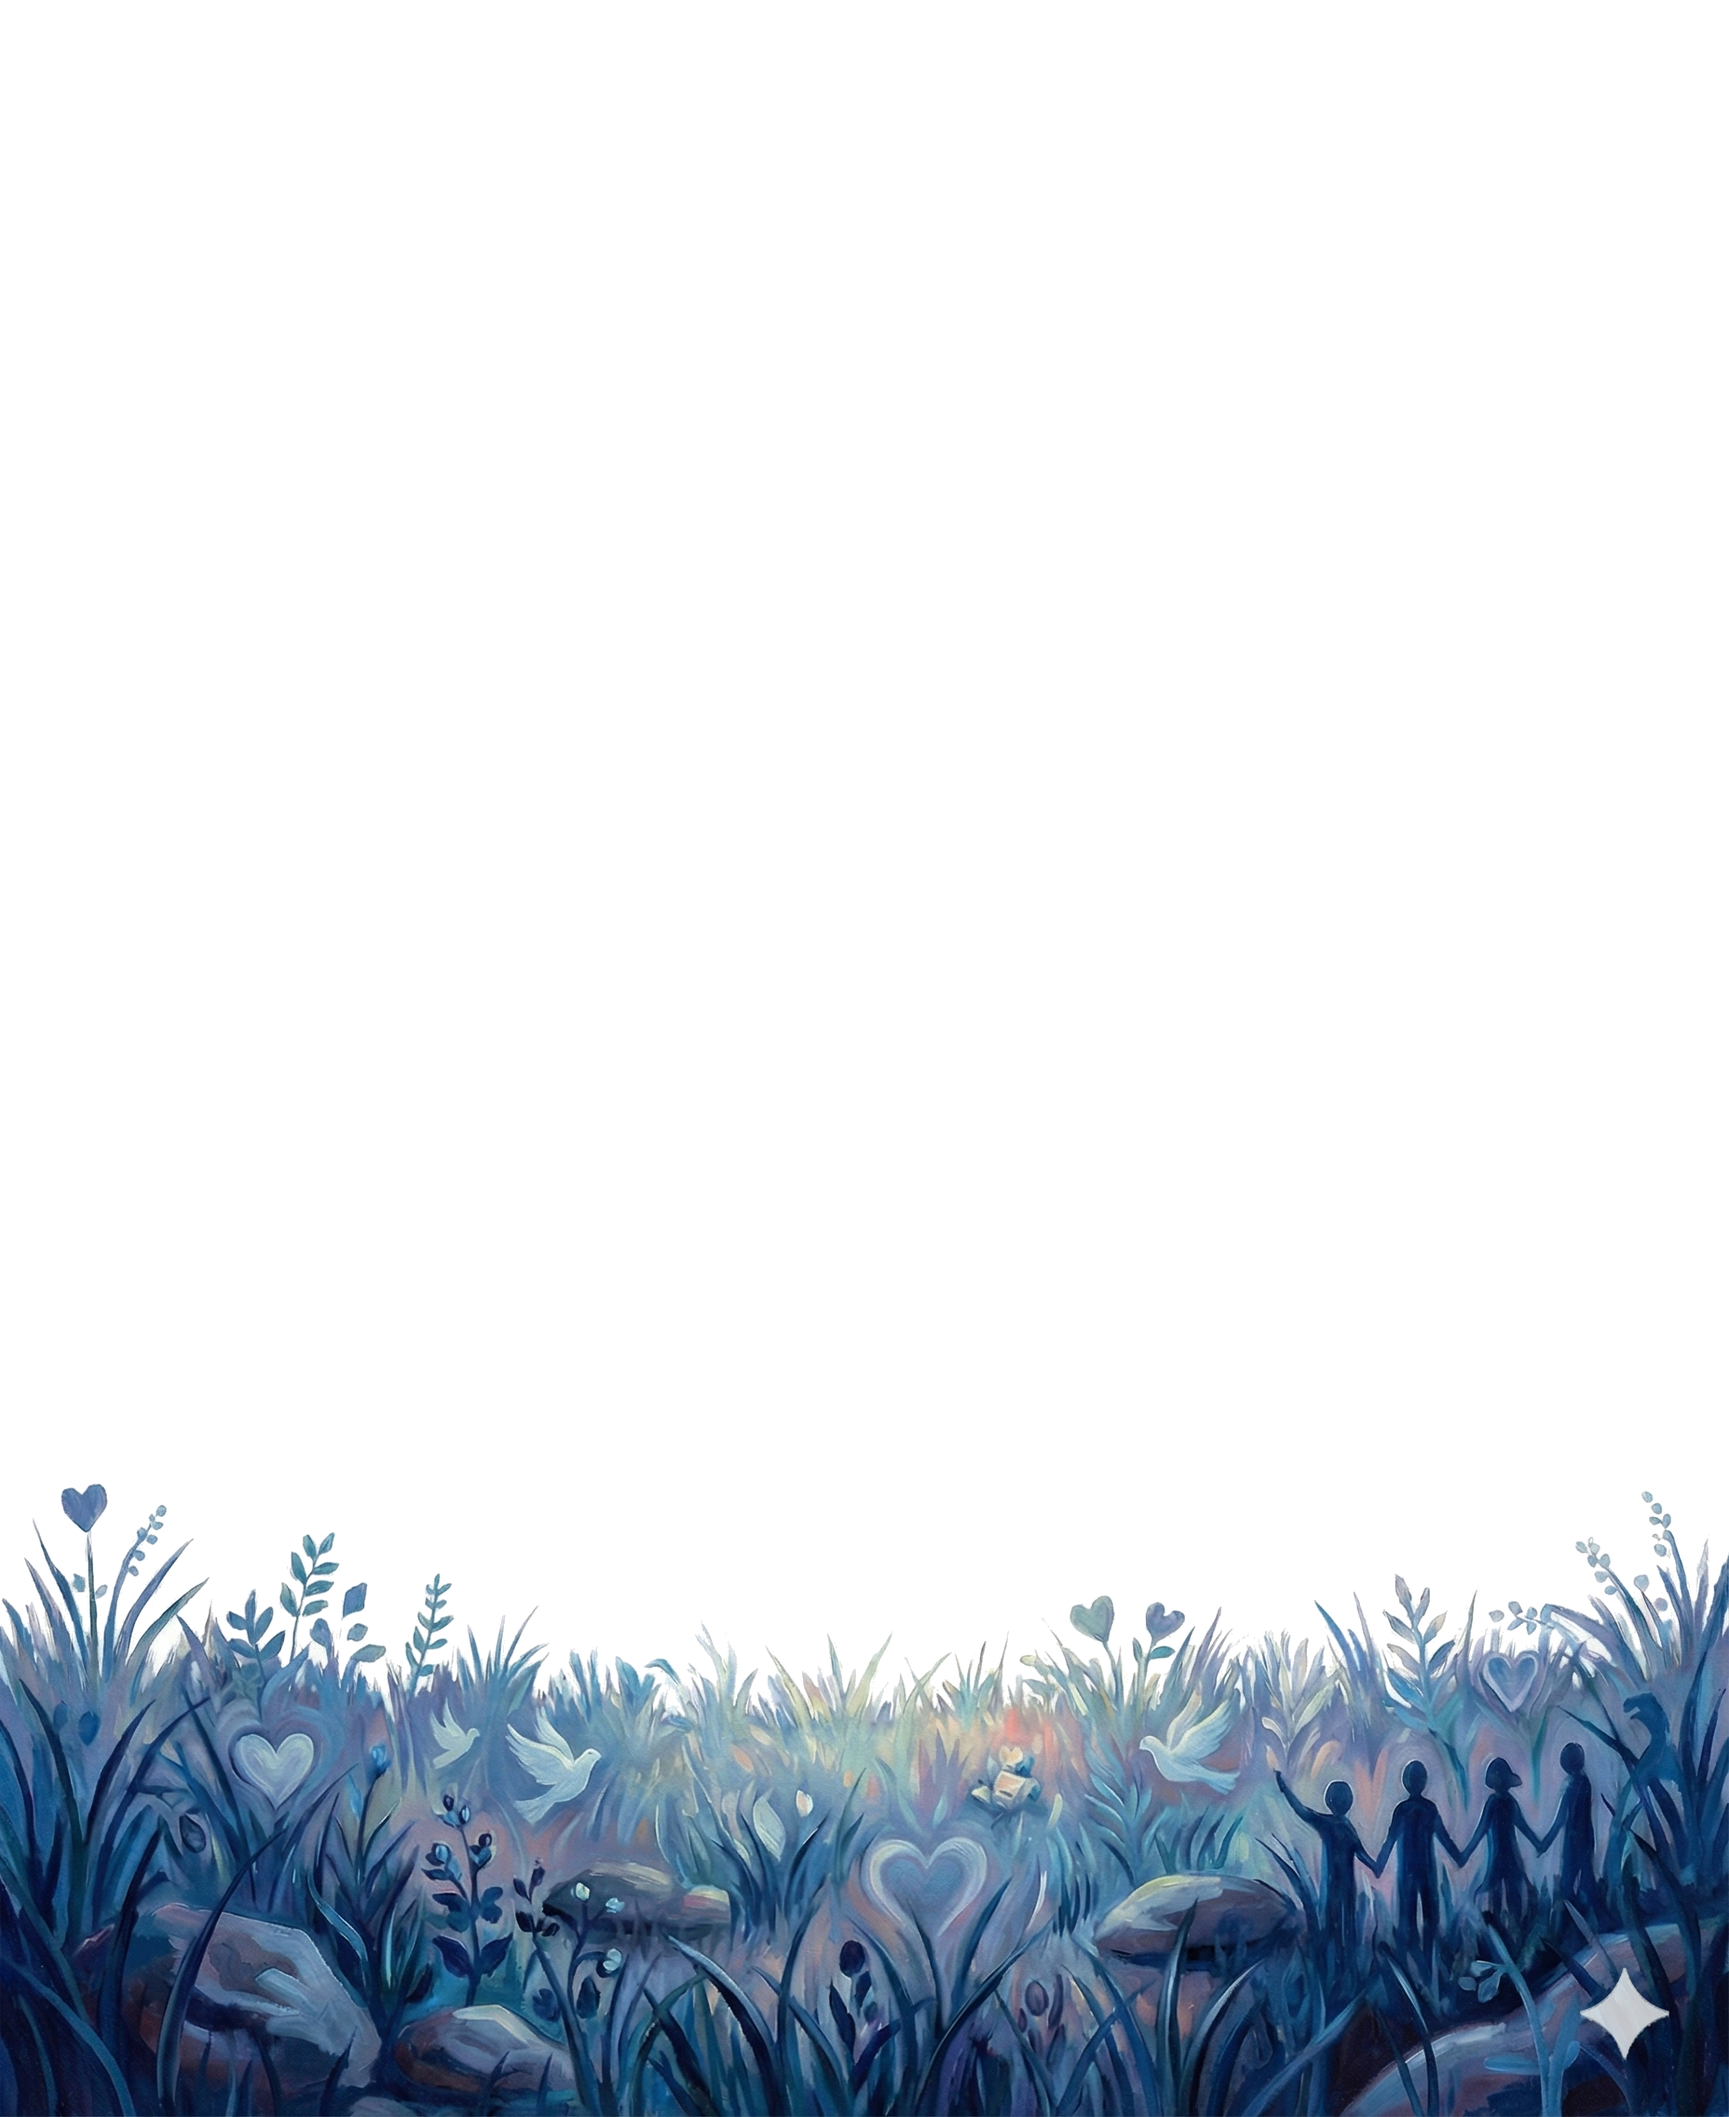
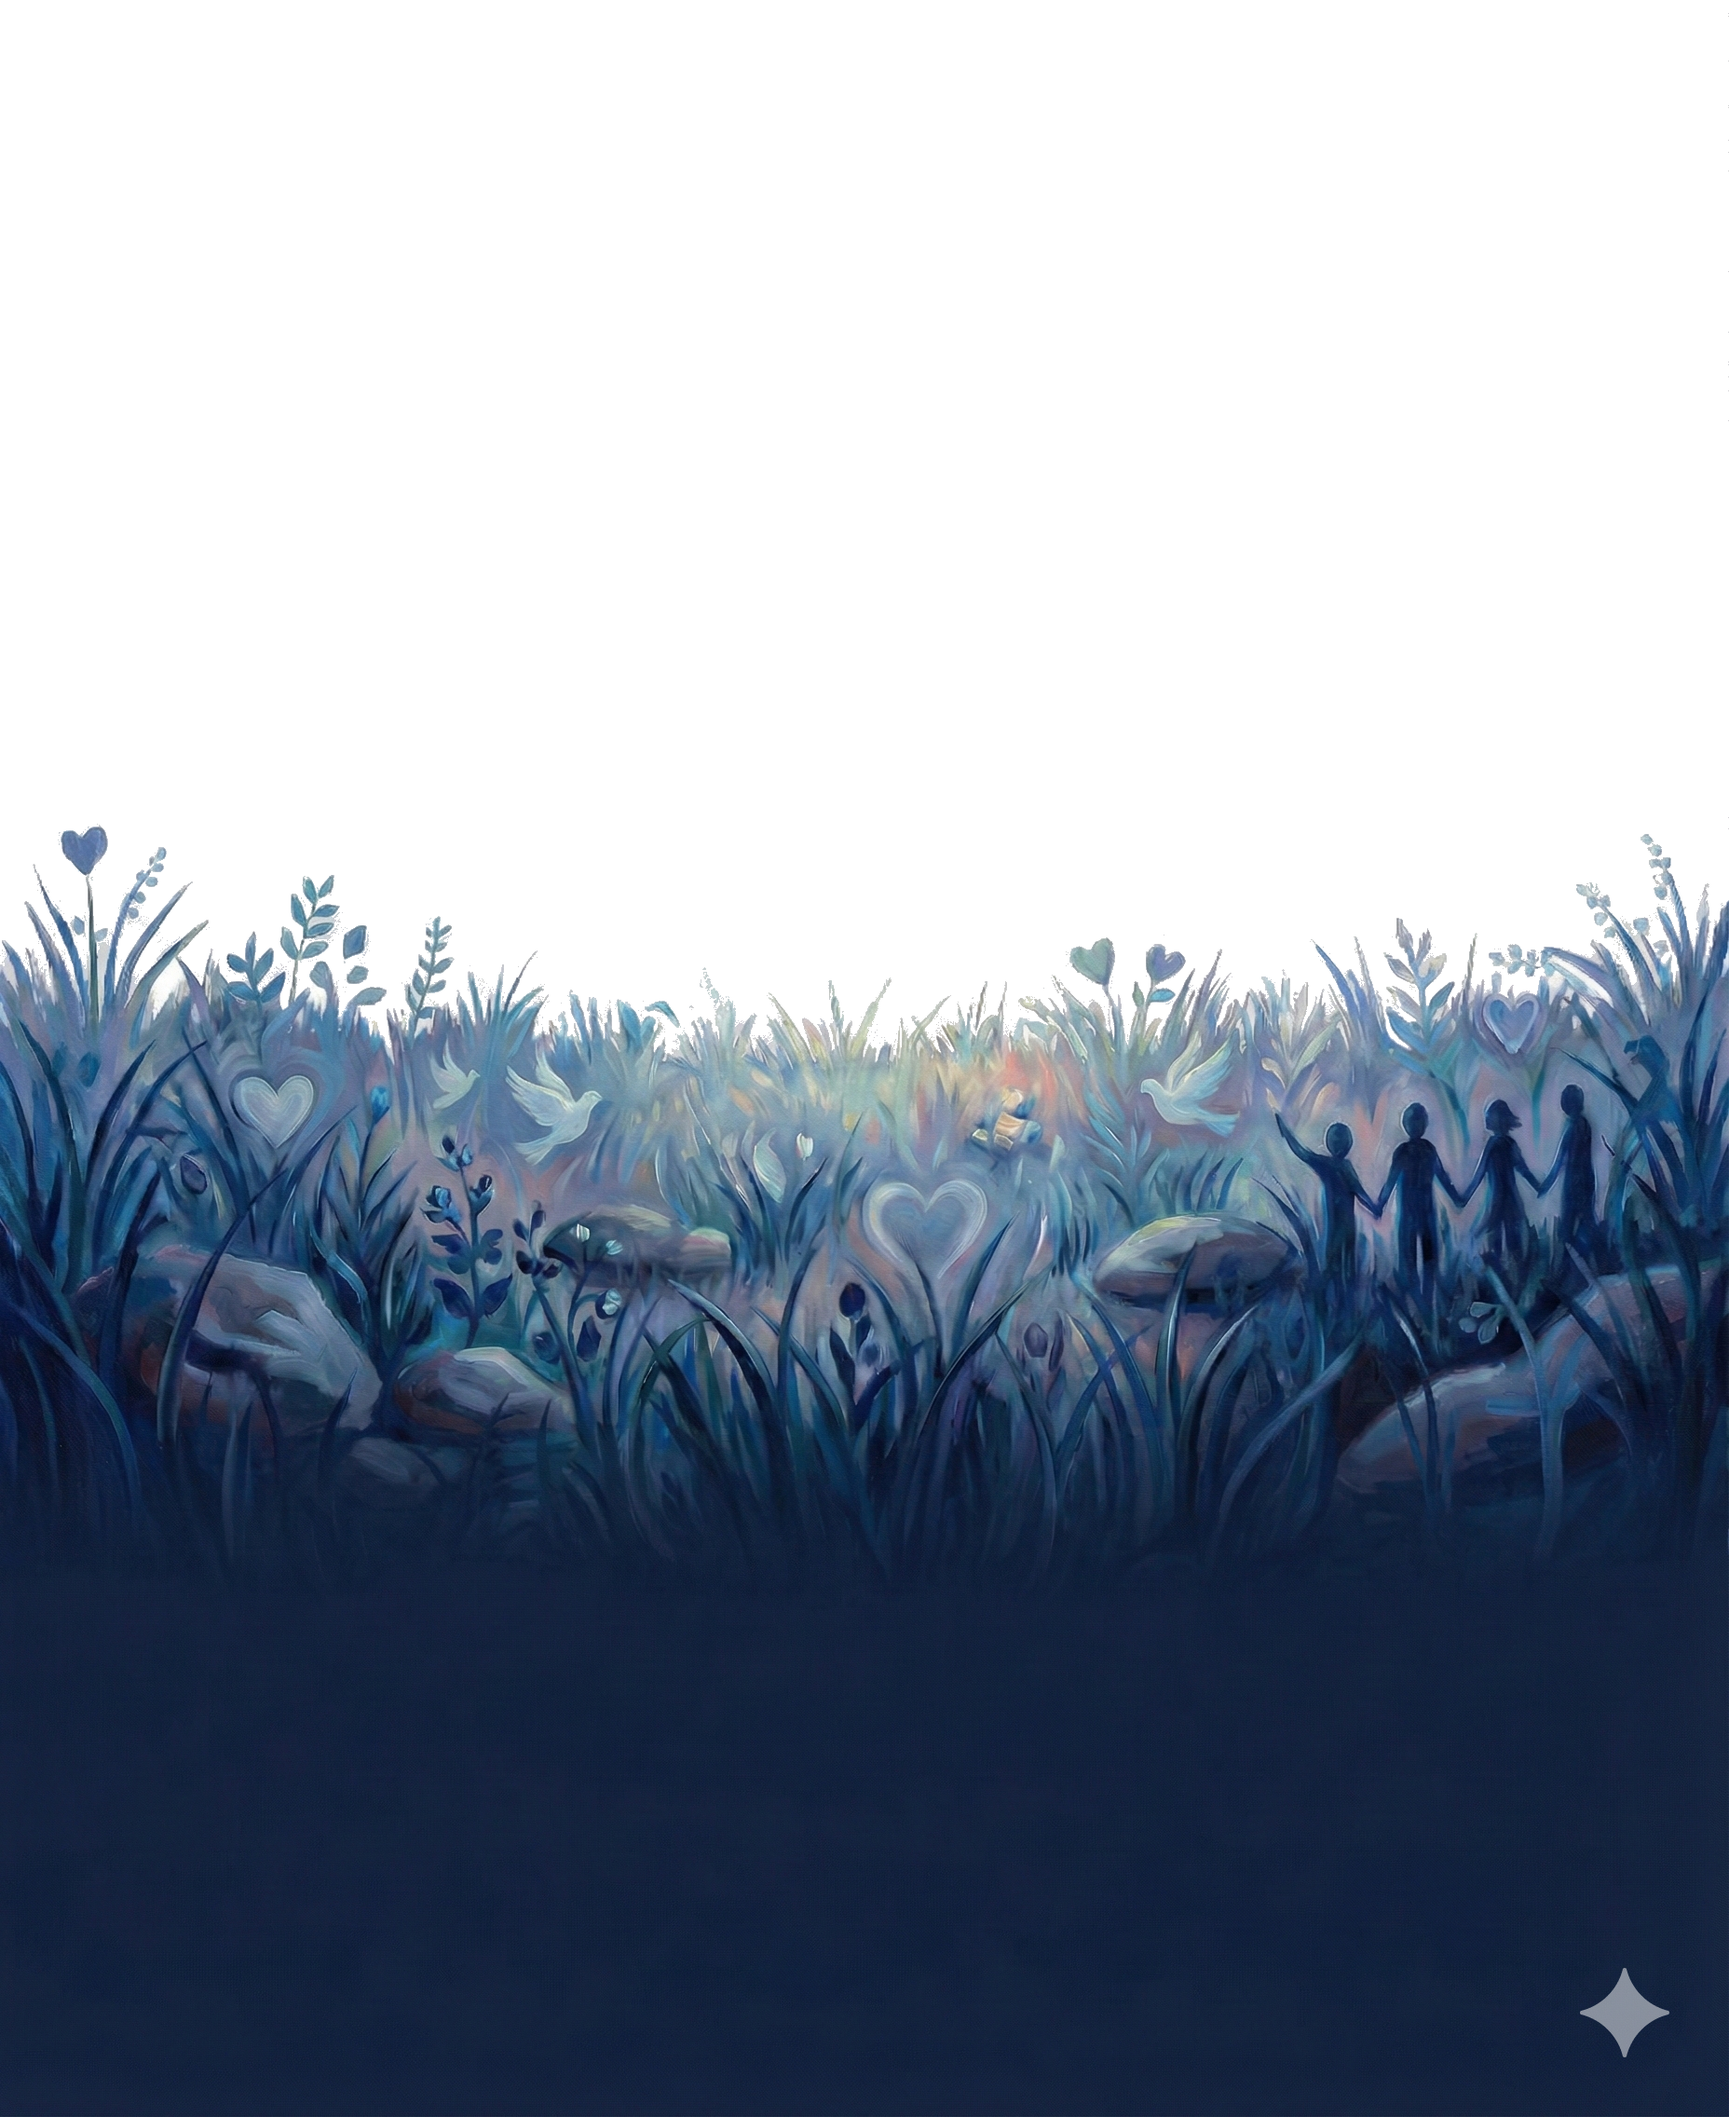
wip

diff --git a/index.html b/index.html
@@ -48,7 +48,7 @@
         /* Smooth reveal animation classes */
         .reveal {
             opacity: 0;
-            transform: translateY(30px);
+            transform: translateY(-40px);
             transition: all 1s ease-out;
         }
 
@@ -75,14 +75,20 @@
             text-shadow: 0 0 20px rgba(255, 160, 122, 0.4);
         }
 
-        /* Advanced Parallax Layering */
+        /* Parallax Hero */
+        #parallax-hero {
+            position: relative;
+            height: 100vh;
+            overflow: hidden;
+        }
+
         #parallax-bg {
-            position: fixed;
+            position: absolute;
             top: 0;
             left: 0;
             width: 100%;
             height: 100%;
-            z-index: -1;
+            z-index: 0;
             overflow: hidden;
             background-color: #0f172a;
         }
@@ -92,22 +98,16 @@
             top: 0;
             left: 0;
             width: 100%;
-            height: 100%;
-            background-size: contain;
-            background-position: center;
+            height: 120%;
+            background-size: cover;
+            background-position: center bottom;
             background-repeat: no-repeat;
             will-change: transform;
         }
 
-        /* Ensure sections are transparent to show background */
-        section {
-            background-color: transparent !important;
+        #parallax-hero header {
             position: relative;
             z-index: 1;
-        }
-
-        header {
-            background-color: transparent !important;
         }
 
         /* Specific section adjustments for visibility */
@@ -120,15 +120,6 @@
 </head>
 
 <body class="bg-slate-900 text-slate-100 font-body antialiased overflow-x-hidden">
-
-    <!-- Fixed Parallax Background Container -->
-    <div id="parallax-bg">
-        <div class="parallax-layer" id="layer-sky" style="background-image: url('images/sky.png');"></div>
-        <div class="parallax-layer" id="layer-mountains" style="background-image: url('images/mountains.png');"></div>
-        <div class="parallax-layer" id="layer-trees" style="background-image: url('images/trees.png');"></div>
-        <div class="parallax-layer" id="layer-grass" style="background-image: url('images/grass.png');"></div>
-        <div class="overlay"></div>
-    </div>
 
     <!-- Navigation -->
     <nav class="fixed w-full z-50 transition-all duration-300 p-6" id="navbar">
@@ -156,9 +147,22 @@
         </div>
     </nav>
 
-    <!-- SECTION 1: HERO - THE GONG MOON -->
-    <header class="h-screen flex items-center justify-center relative">
-        <div class="relative z-10 text-center px-4 reveal active">
+    <!-- SECTION 1: PARALLAX HERO -->
+    <section id="parallax-hero">
+        <div id="parallax-bg">
+            <div class="parallax-layer" id="layer-sky" data-direction="down" data-speed="0.6"
+                style="background-image: url('images/sky.png');"></div>
+            <div class="parallax-layer" id="layer-mountains" data-direction="down" data-speed="0.5"
+                style="background-image: url('images/mountains.png');"></div>
+            <div class="parallax-layer" id="layer-trees" data-direction="down" data-speed="0.35"
+                style="background-image: url('images/trees.png');"></div>
+            <div class="parallax-layer" id="layer-grass" data-direction="up" data-speed="0.72" data-offset-vh="10"
+                style="background-image: url('images/grass.png');"></div>
+            <div class="overlay"></div>
+        </div>
+
+        <header class="h-full flex items-center justify-center relative">
+            <div class="relative z-10 text-center px-4 reveal">
             <p class="text-orange-300 tracking-[0.3em] text-sm md:text-lg mb-4 uppercase">Vibration &bull; Earth &bull;
                 Spirit</p>
             <h1 class="font-heading text-6xl md:text-8xl lg:text-9xl mb-6 text-white glow-text">
@@ -173,13 +177,14 @@
                     Listen Now
                 </a>
             </div>
-        </div>
+            </div>
 
-        <!-- Scroll Indicator -->
-        <div class="absolute bottom-10 left-1/2 transform -translate-x-1/2 animate-bounce text-orange-200/50">
-            <i data-lucide="chevron-down" class="w-8 h-8"></i>
-        </div>
-    </header>
+            <!-- Scroll Indicator -->
+            <div class="absolute bottom-10 left-1/2 transform -translate-x-1/2 animate-bounce text-orange-200/50">
+                <i data-lucide="chevron-down" class="w-8 h-8"></i>
+            </div>
+        </header>
+    </section>
 
     <!-- SECTION 2: TEXT CONTENT - EARTH CONNECTION -->
     <section id="about" class="py-24 bg-slate-900 relative">
@@ -391,39 +396,28 @@
 
         // Parallax Configuration
         const bgContainer = document.getElementById('parallax-bg');
-        const layers = {
-            sky: document.getElementById('layer-sky'),
-            mountains: document.getElementById('layer-mountains'),
-            trees: document.getElementById('layer-trees'),
-            grass: document.getElementById('layer-grass')
-        };
-
-        // Alignment Point: 100vh (1 viewport height)
-        // At this point, all layers should have translateY(0)
-        // Speed Factors: Higher means moves faster/further from alignment
-        // We want Foreground (Footer/Forest) to move more than Background (Hero)
-        const speeds = {
-            sky: 0.08,       // Background (slowest)
-            mountains: 0.2,  // Mid-back
-            trees: 0.35,     // Mid-front
-            grass: 0.5       // Foreground (fastest)
-        };
+        const parallaxLayers = Array.from(
+            document.querySelectorAll('#parallax-bg .parallax-layer')
+        );
 
         function updateParallax() {
             const scrollY = window.scrollY;
             const viewportHeight = window.innerHeight;
 
-            // Alignment scroll position
-            const targetScroll = viewportHeight;
-
-            // Calculate translation for each layer
-            // Formula: (currentScroll - targetScroll) * speed
-            // This ensures that when scrollY === targetScroll, translate is 0
-
-            Object.keys(layers).forEach(key => {
-                const speed = speeds[key];
-                const translateY = (scrollY - targetScroll) * speed;
-                layers[key].style.transform = `translateY(${translateY}px)`;
+            // Move layers upward as the user scrolls down, only within the hero viewport
+            const clampedScroll = Math.min(scrollY, viewportHeight);
+            parallaxLayers.forEach(layer => {
+                const speed = parseFloat(layer.dataset.speed || '0.2');
+                const direction = layer.dataset.direction === 'down' ? 1 : -1;
+                const offsetPx = parseFloat(layer.dataset.offset || '0');
+                const offsetVw = parseFloat(layer.dataset.offsetVw || '0');
+                const offsetVh = parseFloat(layer.dataset.offsetVh || '0');
+                const baseOffset =
+                    offsetPx +
+                    (offsetVw * (window.innerWidth / 100)) +
+                    (offsetVh * (window.innerHeight / 100));
+                const translateY = baseOffset + direction * clampedScroll * speed;
+                layer.style.transform = `translateY(${translateY}px)`;
             });
 
             // Navbar Scroll Effect
